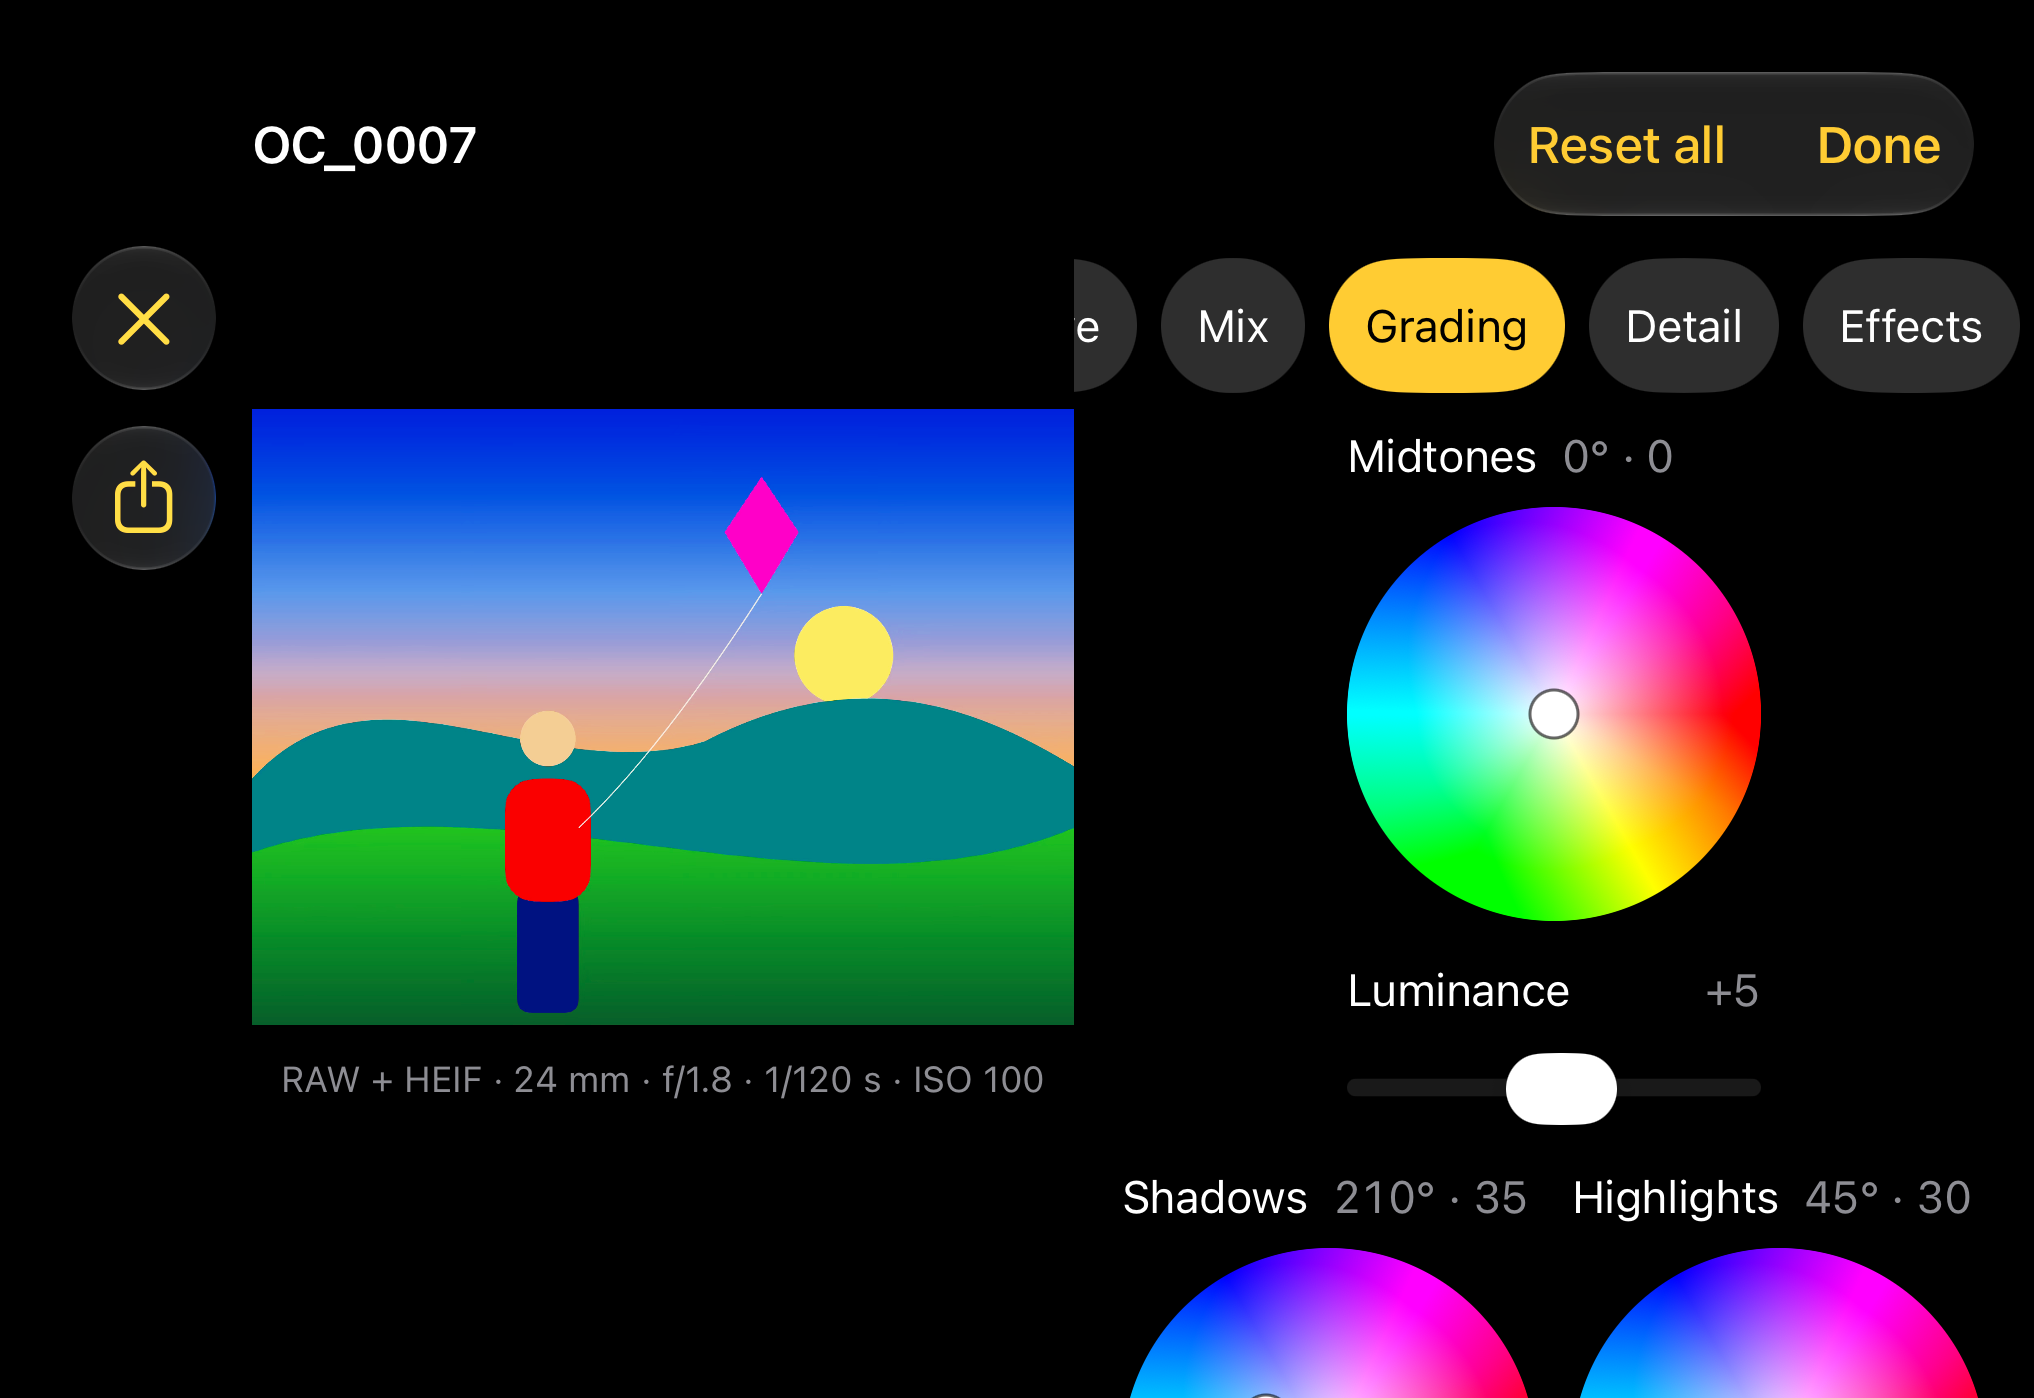
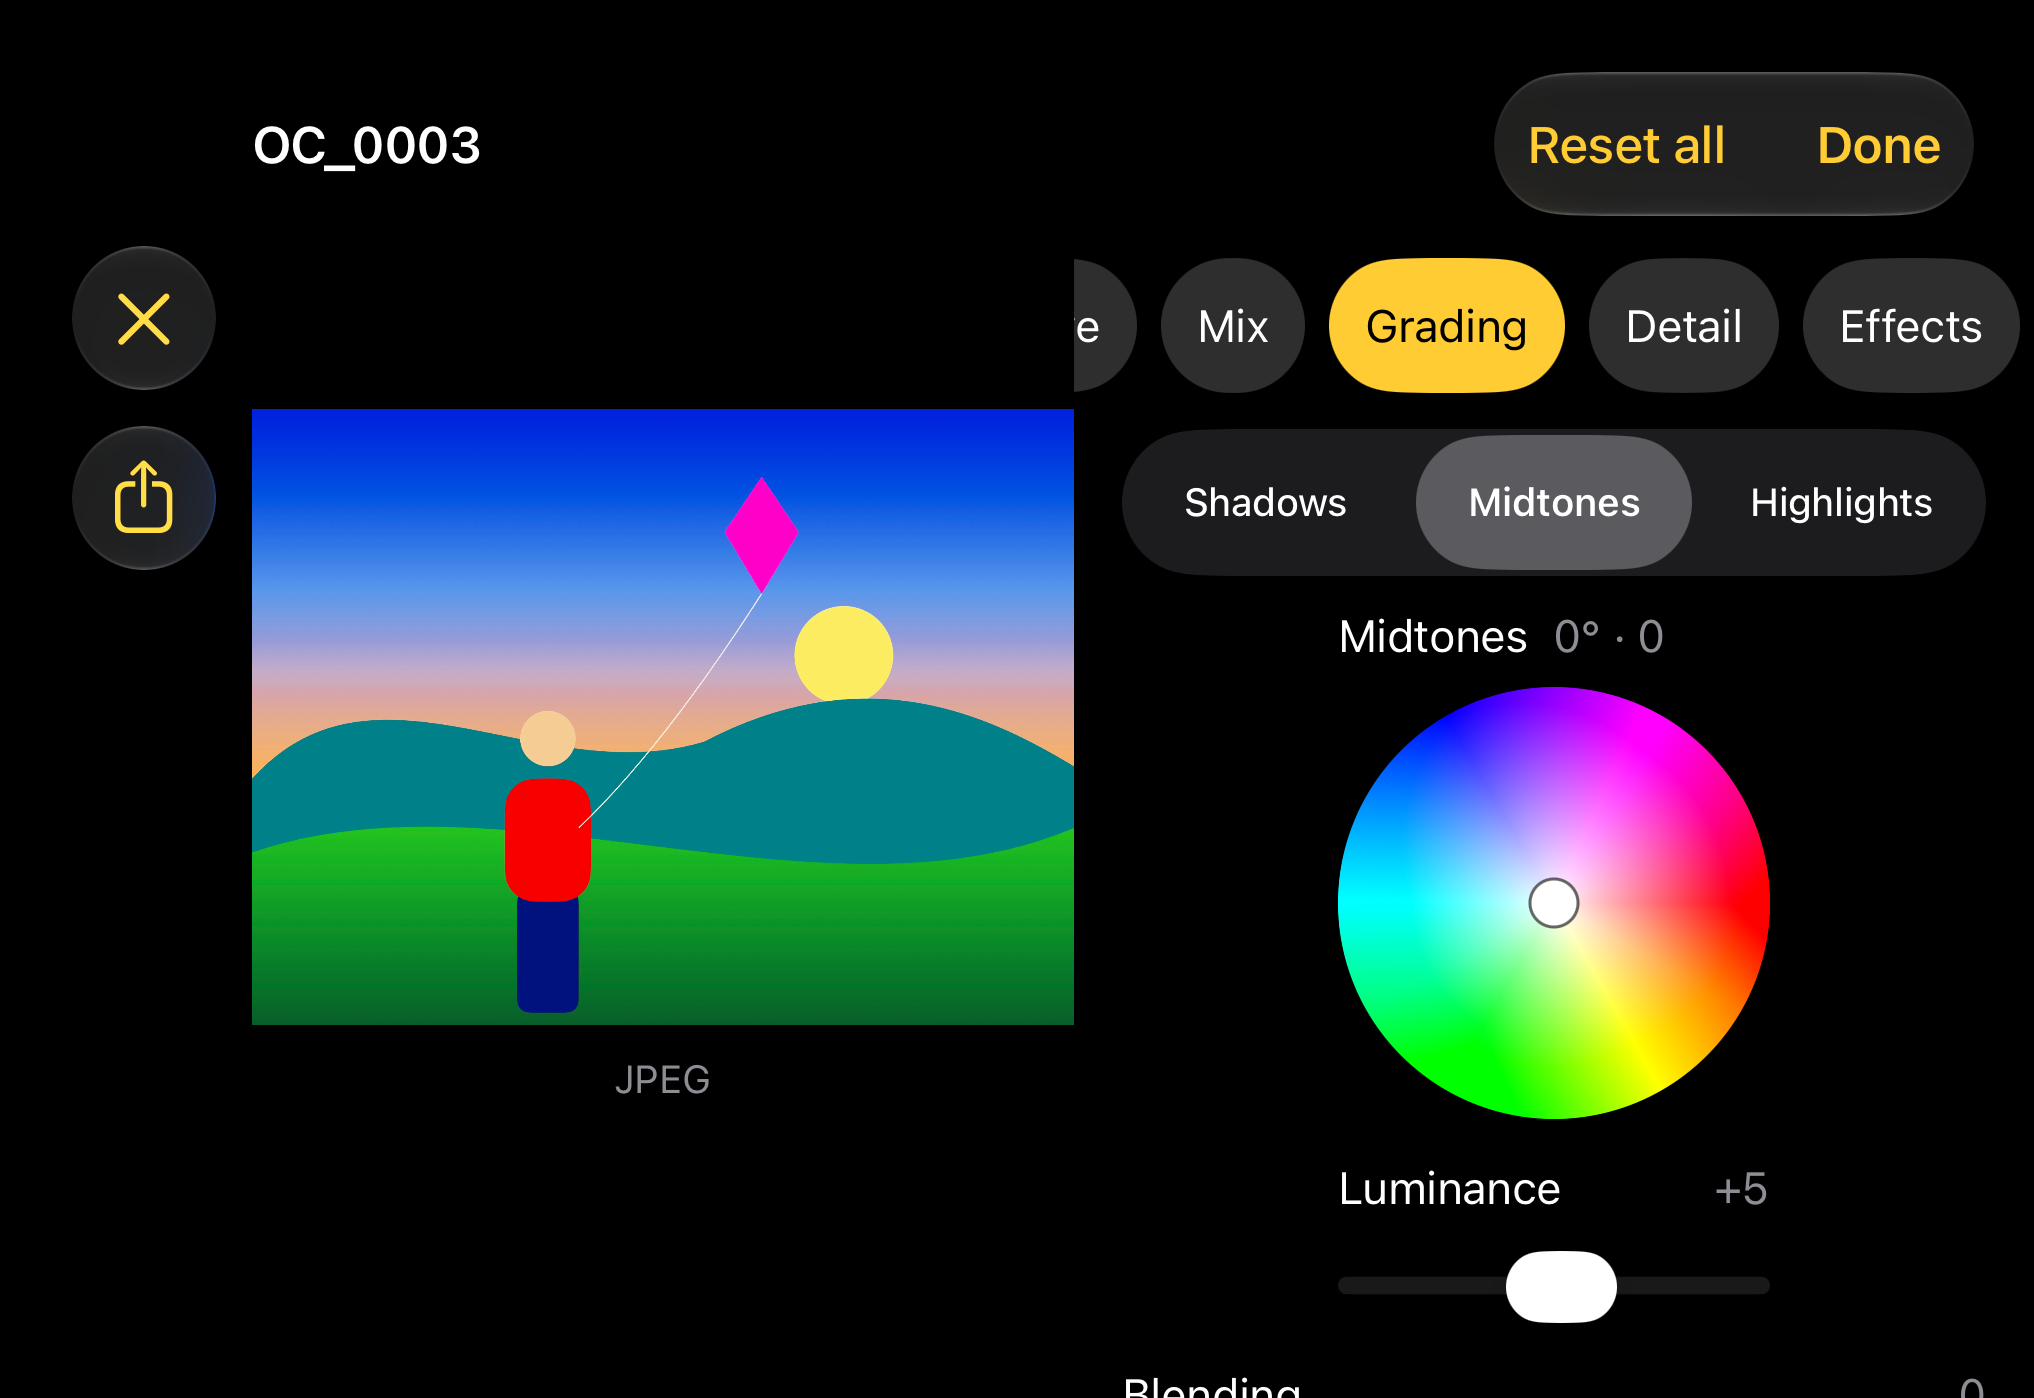
docs: re-shoot the grading screens for one wheel at a time and record the change

diff --git a/docs/superpowers/plans/2026-11-11-opencam-editor-colour-tools.md b/docs/superpowers/plans/2026-11-11-opencam-editor-colour-tools.md
@@ -874,7 +874,7 @@ What was built differs from the text above in these places; each was a controlle
 - **Group picker** is a sideways-scrolling row of system buttons, not a segmented control: inside a scroll view a segmented control takes every drag that starts on it, so the last groups could not be reached on the folded display. Nothing of it draws past the panel edge into the system strip.
 - **Panel heights**: stacked, Curve, Mix and Grading keep 340 pt (Mix added: at 240 pt only 1.5 sliders showed).
 - **Curve canvas**: about 205 pt folded portrait and 215 pt folded landscape (measured on the screenshots), not 230 and 288. The panel's own picker and Reset are 44 pt targets and the canvas takes what is left; a 355 pt Curve panel would bring portrait to about 220 pt at the cost of 15 pt of picture. At accessibility text sizes the canvas shrinks to fit (about 164 pt at XL). Points are added and removed by tap, drag off the plot and double tap, as planned.
-- **Grading wheels**: at the plan's sizes the triangle and its sliders need about 470 pt and the panel has about 290, so Shadows and Highlights are whole after one scroll, not at rest. Each readout sits next to its own title. Tanner kept the triangle on 2026-11-12, over one wheel at a time or a row of three.
+- **Grading wheels**: one wheel at a time, not a triangle (Tanner, 2026-11-12). The triangle and its sliders needed about 470 pt in a panel of about 290, so Shadows and Highlights were whole only after a scroll. A segmented Shadows / Midtones / Highlights picker sits above the panel's scroll view and opens on Midtones (`EditorModel.gradingRegion`, not saved). The chosen range's wheel is 144 pt in every layout, not 160: at 160 the folded portrait panel cut its Luminance slider at rest. Blending and Balance follow after a scroll.
 - **Table cost**: mixer and grading values are held as derived lanes in `Adjustments` (not encoded) so stages 8 and 9 read no dictionary per lattice point; stage 8 mixes and stage 9 grades the clamped colour. Debug Simulator table build: about 50 ms for an E1 look, about 140 ms for "Colour study".
 - **Colour study** reads punchier rather than matte in the viewfinder: its mixer saturation boosts outweigh its black lift.
 
